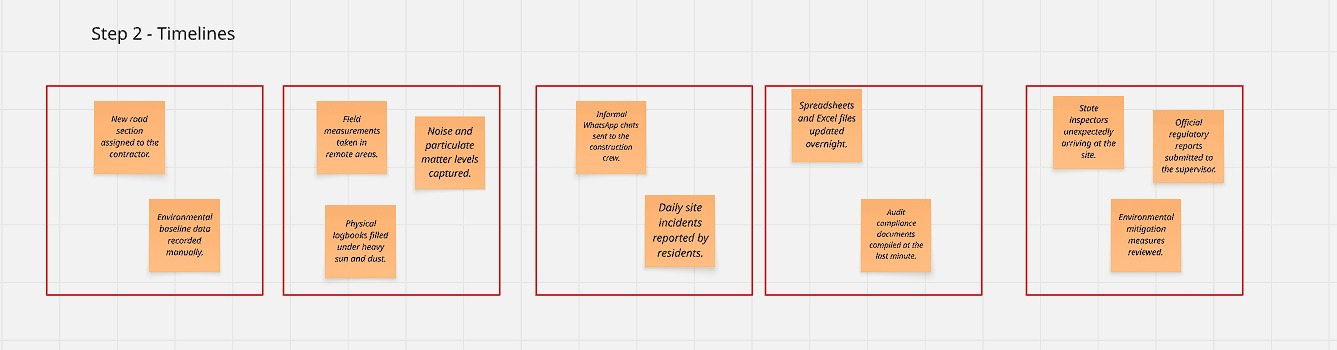
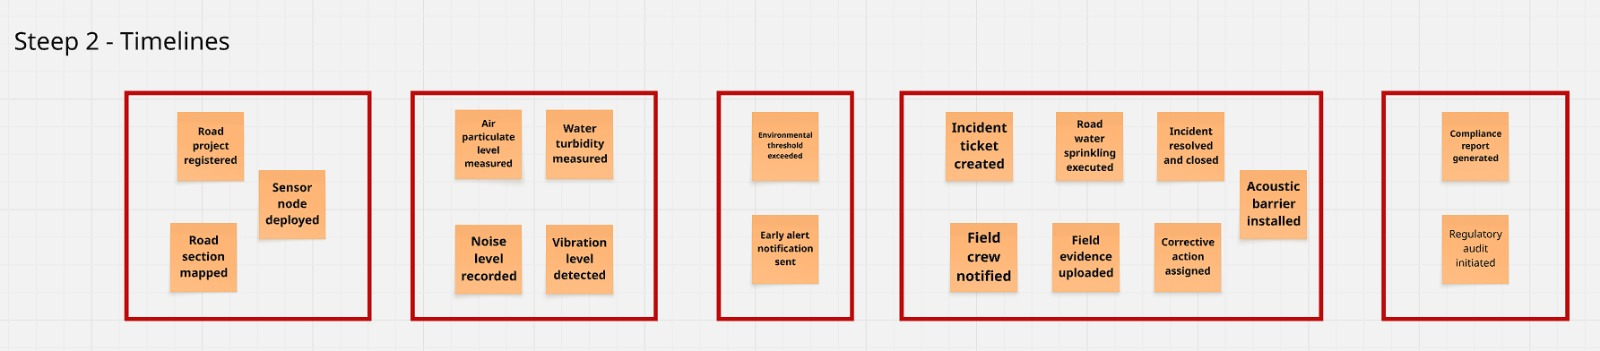
Docs: change EventStorming

Changed region(s): [[0.0307, 0.2286, 0.9813, 0.9429], [0.0, 0.0857, 0.184, 0.1429]]

diff --git a/docs/Chapter-2.md b/docs/Chapter-2.md
@@ -291,13 +291,13 @@ En este mapa se analizó a Piero Deza, un residente de mantenimiento vial y supe
 
 Step 1 – Free Exploration
 
-En esta fase inicial de exploración libre, el equipo llevó a cabo una sesión de ideación colaborativa intensiva sobre un lienzo digital en blanco. El objetivo principal fue mapear de forma abierta y sin restricciones metodológicas todos los acontecimientos, puntos de contacto, actores y situaciones críticas que ocurren a lo largo del ciclo de vida del monitoreo socioambiental en los tramos viales. Durante este acercamiento inicial, se identificaron de manera espontánea los principales dolores operativos, como la fricción en el registro manual de datos, la dependencia de canales de comunicación informales y la complejidad de compilar información dispersa para los entes reguladores.
+En esta primera etapa, el equipo realizó una sesión de lluvia de ideas para capturar todos los eventos relevantes dentro del dominio, sin preocuparse por el orden o la jerarquía. El objetivo principal fue representar los acontecimientos reales del negocio, de manera independiente a cualquier función técnica o relacionada con un sistema.
 <div align="center"><img src="../assets/Chapter-2/Steep1.jpg" alt="Gráfico Estadístico Administradores" width="80%"></div>
 <br>
 
 Step 2 – Structured Organization
 
-Tras la exploración inicial, el equipo procedió a estructurar y ordenar cronológicamente los eventos de izquierda a derecha en un flujo continuo dividido en fases operativas clave para el monitoreo socioambiental en los tramos viales. Asimismo, se agruparon los acontecimientos bajo marcos específicos para delimitar las etapas del proceso.
+Después de listar los eventos, el equipo los organizó en flujos de negocio lógicos que reflejan las principales etapas en la operación de monitoreo ambiental y gestión de incidencias en proyectos de construcción y mantenimiento vial. Esta estructura ayudó a identificar los procesos clave y las áreas de mejora que posteriormente podrían abordarse mediante soluciones digitales o de gestión.
 <div align="center"><img src="../assets/Chapter-2/Steep2.jpg" alt="Gráfico Estadístico Administradores" width="80%"></div>
 <br>
 
@@ -308,13 +308,25 @@ Tras la exploración inicial, el equipo procedió a estructurar y ordenar cronol
 
 Con el propósito de mantener una comunicación transparente, estandarizada y libre de ambigüedades entre todos los miembros del equipo y los stakeholders, se establece el siguiente glosario de términos y conceptos propios del dominio de negocio, fundamentado en los principios del Domain-Driven Design de Eric Evans. Mantener un glosario de esta naturaleza completo y actualizado asegura que tanto los desarrolladores como los expertos en el dominio operen bajo el mismo entendimiento conceptual.
 
-A continuación, se detallan los términos clave del dominio socioambiental vial actualizados para nuestros segmentos objetivo (Empresas Constructoras Viales y Empresas de Mantenimiento y Rehabilitación Vial):
+| Term                                                   | Definition |
+|:-------------------------------------------------------| :--- |
+| Environmental Monitoring                               | Systematic process of continuously measuring, recording, and evaluating physical impact variables (noise, PM10/PM2.5 particulate matter, water quality, and vibrations) across road construction or maintenance sites. |
+| Road Construction Company                     | Executing organization responsible for building new highways and managing active construction sites and preventive socio-environmental compliance. |
+| Road Maintenance and Rehabilitation Company   | Organization in charge of conserving, improving, and rehabilitating existing road infrastructure, responsible for mitigating environmental impacts caused by heavy machinery on open-traffic roads. |
+| Site Resident                                 | Field professional responsible for technical project execution or road conservation tasks, directly supervising environmental regulatory compliance and incident response on-site. |
+| Environmental Quality Standard / ECA Threshold | Maximum permissible limit for contaminants or physical parameters established by national regulations that must not be exceeded during road operations. |
+| Threshold Deviation                           | Automatic detection of an environmental measurement exceeding maximum permissible limits (ECA or normative thresholds) captured by IoT sensors during field operations. |
+| Environmental Incident                      | Critical event triggered by a threshold deviation requiring the creation of an operational ticket, assignment of corrective action, and submission of field evidence. |
+| Corrective Action                             | Technical or mitigative procedure executed on-site (such as road wetting, installation of acoustic barriers, or machinery maintenance) to return environmental parameters to permitted levels. |
+| Field Evidence                                | Photographic or documentary evidence captured on-site by the field crew to substantiate the execution of a corrective action prior to formally closing an incident ticket. |
+| Field Crew                                    | Operational team deployed along road sections responsible for executing construction/maintenance work and applying environmental mitigation actions. |
+| Regulatory Audit                             | Official inspection and review process of documentation, historical logs, and socio-environmental indicators conducted by authorized regulatory entities (such as MTC or OEFA). |
+| Compliance Report                            | Official, automated document generated by the platform that consolidates the historical record of indicators, alerts, and resolved incidents for presentation during internal or external audits. |
+| Multi-Site Road Control                    | Operational capability to centrally monitor and manage the environmental compliance and performance of multiple geographically dispersed road sections and work fronts simultaneously. |
 
-* **Environmental Monitoring (Monitoreo Ambiental):** Proceso sistemático de medición, registro y evaluación de variables críticas de impacto (como ruido, material particulado PM10/PM2.5, calidad de agua y vibraciones) mediante sensores IoT en los frentes de obra o tramos viales.
-* **Road Construction Company (Empresa Constructora Vial):** Organización ejecutora responsable de la construcción de nuevas carreteras y de la gestión operativa y ambiental de los frentes de obra.
-* **Road Maintenance and Rehabilitation Company (Empresa de Mantenimiento y Rehabilitación Vial):** Organización encargada de la conservación, mejora y rehabilitación de infraestructura vial existente, responsable de mitigar los impactos ambientales diarios generados por maquinaria pesada en vías abiertas al tráfico.
-* **Site Resident (Residente de Obra / Residente de Mantenimiento):** Profesional de campo responsable de la ejecución de los proyectos viales o labores de conservación, encargado de supervisar directamente el cumplimiento de las normativas ambientales y la atención de incidencias en la vía.
-* **Regulatory Audit (Auditoría Regulatoria):** Proceso de revisión y fiscalización oficial de la documentación, registros históricos e indicadores socioambientales por parte de los entes reguladores competentes (como el MTC o el OEFA).
-* **Threshold Deviation (Desvío de Umbral):** Superación automática de los límites máximos permisibles (ECA u otros umbrales normativos) detectada por el sistema IoT para los indicadores ambientales durante las operaciones.
-* **Environmental Incident (Incidencia Ambiental):** Evento crítico generado a partir de una superación de umbrales que requiere la apertura de un ticket operativo, la asignación de una acción correctiva y el registro de evidencias fotográficas en campo.
-* **Compliance Report (Reporte de Cumplimiento):** Documento oficial y automatizado generado por la plataforma que consolida el histórico de indicadores, alertas e incidencias para su presentación ante auditorías internas o fiscalizaciones externas.
+
+
+
+
+
+
